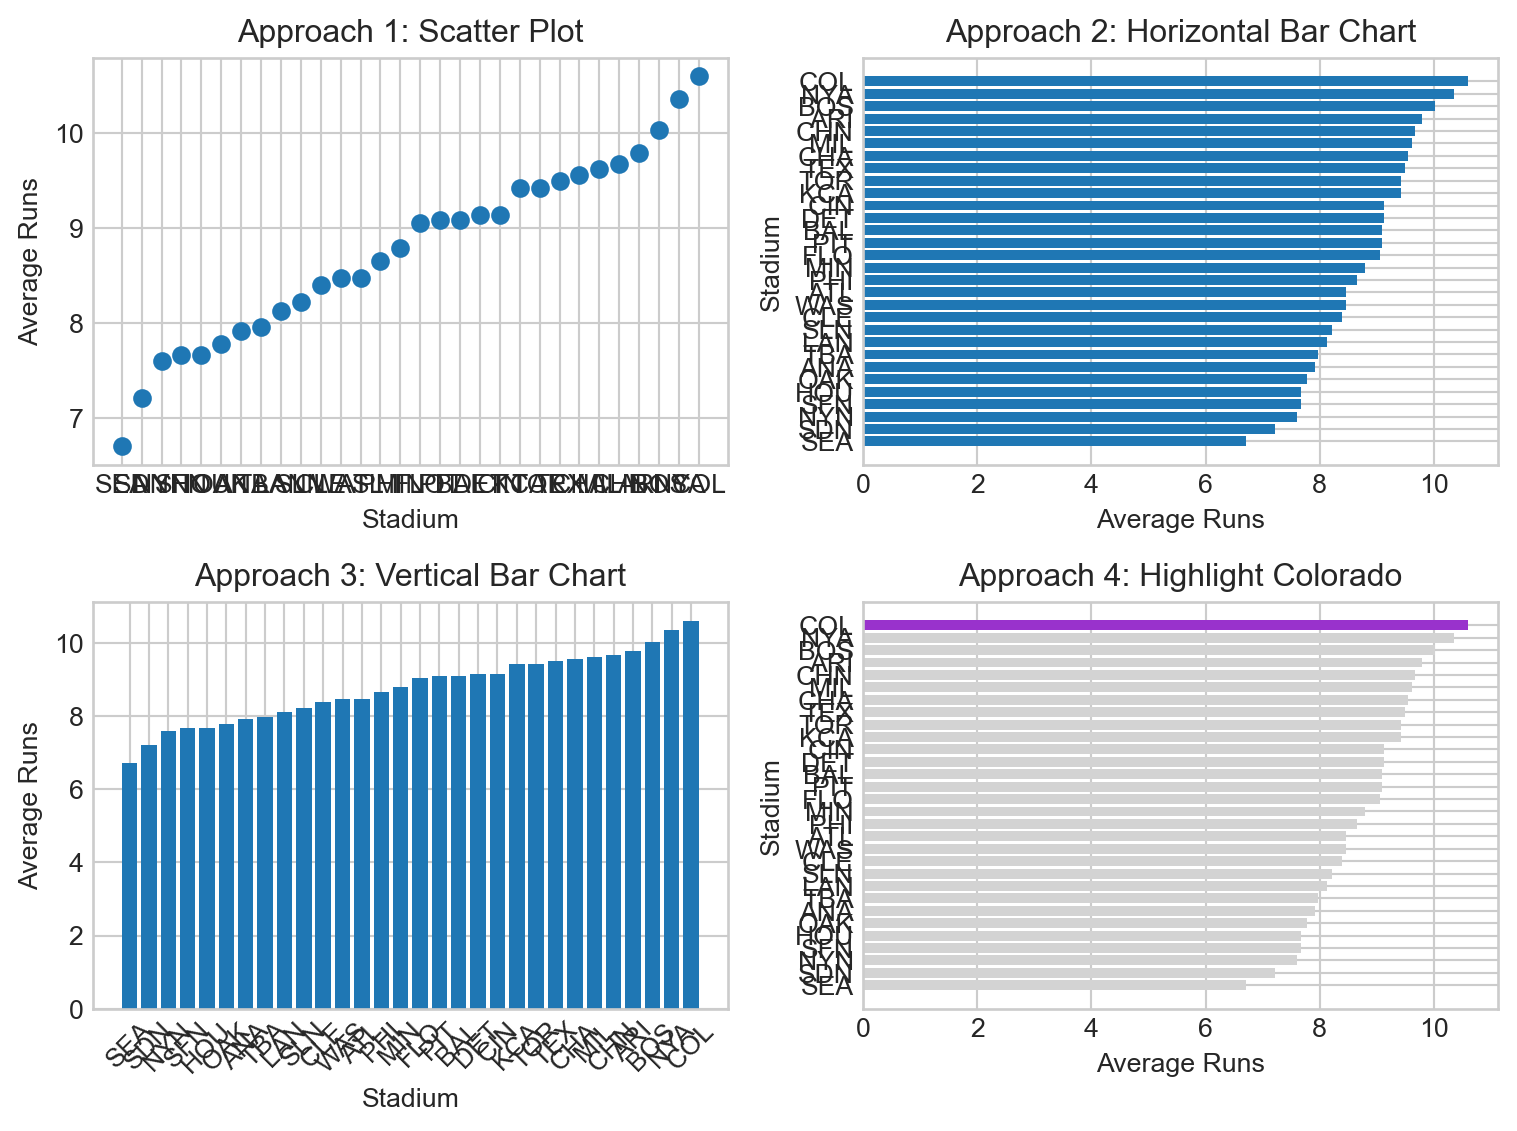
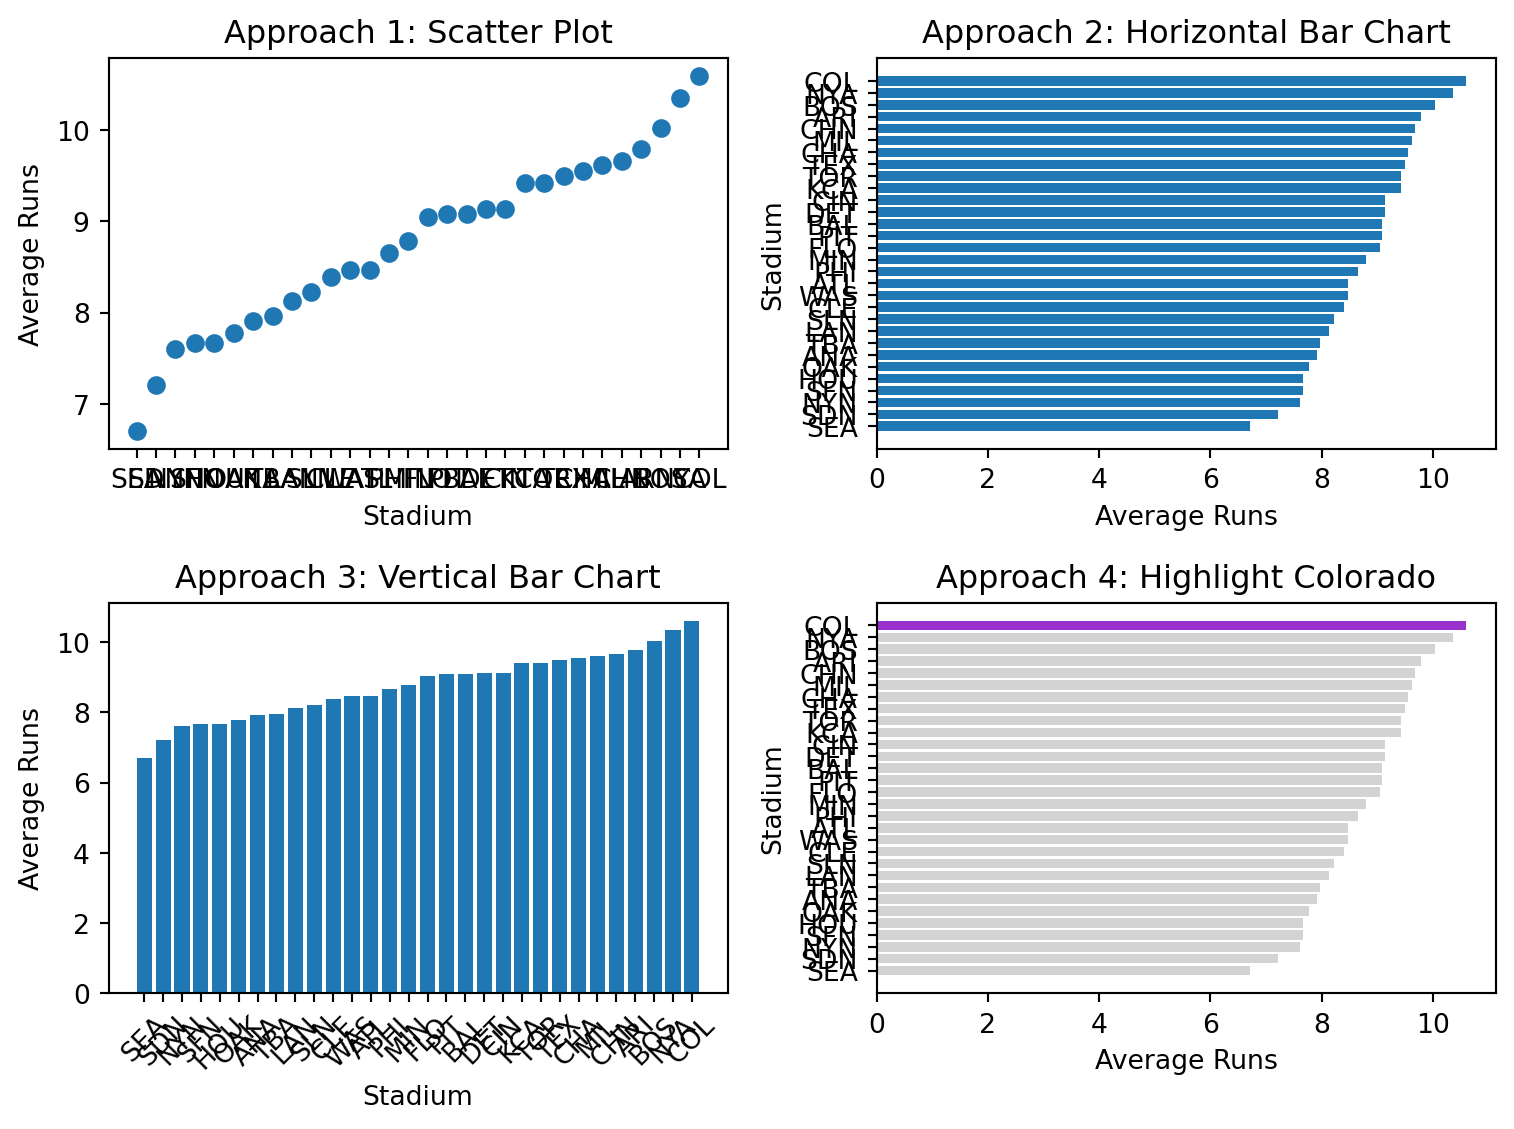
commit update size

Changed region(s): [[0.0, 0.496, 0.9934, 0.992], [0.4967, 0.0, 0.9934, 0.465], [0.0, 0.0, 0.4967, 0.465]]

diff --git a/index.html b/index.html
@@ -292,7 +292,7 @@ First few rows of 2010 data:
 <blockquote class="blockquote">
 <p>*<strong>ANSWER 1: Data Aggregation Strategy</strong></p>
 </blockquote>
-<div id="1a92fe41" class="cell" data-execution_count="3">
+<div id="74a8d8fb" class="cell" data-execution_count="3">
 <div class="code-copy-outer-scaffold"><div class="sourceCode cell-code" id="cb5"><pre class="sourceCode python code-with-copy"><code class="sourceCode python"><span id="cb5-1"><a href="#cb5-1" aria-hidden="true" tabindex="-1"></a><span class="bu">print</span>(<span class="st">"2010 data shape:"</span>, df2010.shape)</span>
 <span id="cb5-2"><a href="#cb5-2" aria-hidden="true" tabindex="-1"></a><span class="bu">print</span>(<span class="st">"2021 data shape:"</span>, df2021.shape)</span></code></pre></div><button title="Copy to Clipboard" class="code-copy-button"><i class="bi"></i></button></div>
 <div class="cell-output cell-output-stdout">
@@ -349,7 +349,7 @@ First few rows of 2010 data:
 <div class="cell-output cell-output-display">
 <div>
 <figure class="figure">
-<p><img src="index_files/figure-html/stage-3-mapping-exploration-output-1.png" id="stage-3-mapping-exploration" width="759" height="566" class="figure-img"></p>
+<p><img src="index_files/figure-html/stage-3-mapping-exploration-output-1.png" id="stage-3-mapping-exploration" width="757" height="565" class="figure-img"></p>
 </figure>
 </div>
 </div>
@@ -506,7 +506,7 @@ Colorado is 20.8% above league average</code></pre>
 <span id="cb11-17"><a href="#cb11-17" aria-hidden="true" tabindex="-1"></a>plt.style.use(<span class="st">"seaborn-v0_8-whitegrid"</span>)</span>
 <span id="cb11-18"><a href="#cb11-18" aria-hidden="true" tabindex="-1"></a></span>
 <span id="cb11-19"><a href="#cb11-19" aria-hidden="true" tabindex="-1"></a></span>
-<span id="cb11-20"><a href="#cb11-20" aria-hidden="true" tabindex="-1"></a>fig, axes <span class="op">=</span> plt.subplots(<span class="dv">1</span>, <span class="dv">2</span>, figsize<span class="op">=</span>(<span class="dv">16</span>, <span class="dv">8</span>))</span>
+<span id="cb11-20"><a href="#cb11-20" aria-hidden="true" tabindex="-1"></a>fig, axes <span class="op">=</span> plt.subplots(<span class="dv">1</span>, <span class="dv">2</span>, figsize<span class="op">=</span>(<span class="dv">10</span>, <span class="dv">6</span>))</span>
 <span id="cb11-21"><a href="#cb11-21" aria-hidden="true" tabindex="-1"></a></span>
 <span id="cb11-22"><a href="#cb11-22" aria-hidden="true" tabindex="-1"></a></span>
 <span id="cb11-23"><a href="#cb11-23" aria-hidden="true" tabindex="-1"></a><span class="co"># Create color array for highlighting Colorado</span></span>
@@ -596,7 +596,7 @@ Colorado is 20.8% above league average</code></pre>
 <div class="cell-output cell-output-display">
 <div>
 <figure class="figure">
-<p><img src="index_files/figure-html/advanced-oo-techniques-output-1.png" id="advanced-oo-techniques" width="1526" height="757" class="figure-img"></p>
+<p><img src="index_files/figure-html/advanced-oo-techniques-output-1.png" id="advanced-oo-techniques" width="1166" height="569" class="figure-img"></p>
 </figure>
 </div>
 </div>
